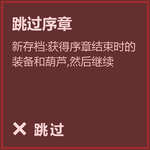
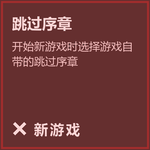
No partner compass; no item cards for the bag catch-up on joining, and the gourd for a player who skipped the prologue by the game's own New Game choice; Skip Prologue points at the game's skip (ours left the young body)

Changed region(s): [[0.08, 0.2667, 0.9067, 0.3467], [0.08, 0.3733, 0.7733, 0.4533], [0.2133, 0.8, 0.5333, 0.9333]]

diff --git a/art/make_online_panel.py b/art/make_online_panel.py
@@ -26,8 +26,7 @@ WORDS = {
                   "direct": ("Steam Direct", "Less delay, but your partner can see your IP"),
                   "players": ("Players", "Host's choice. 6: ghost twins (test)"),
                   "mode": ("Mode", "Local: split screen on this PC, next start"),
-                  "skip": ("Skip Prologue", "New save: the gear and gourd its end gives, then onward"),
-                  "skip_ask": ("Skip Prologue", "Click again to skip it. It can't be undone"),
+                  "skip": ("Skip Prologue", "Start a New Game and choose the game's own skip there"),
                   "skip_done": ("Skip Prologue", "You're past the prologue")},
         "soon": "SOON",
         "foot": ["Click a tile to change it. Kept for next time. Steam Direct and Players: next connection.",
@@ -40,7 +39,7 @@ WORDS = {
                   "online_password_set": ("Password set", "press to remove")},
         "buttons": {"host": "HOST", "join": "GUEST", "leave": "LEAVE", "settings": "MORE", "back": "BACK"},
         "on": "ON", "off": "OFF", "multiplayer": "MULTIPLAYER", "local": "LOCAL",
-        "skip_words": {"todo": "SKIP", "ask": "SURE?", "done": "DONE"},
+        "skip_words": {"todo": "NEW GAME", "done": "DONE"},
     },
     "zh": {
         "prefix": "zh_", "face": chinese, "title": "联机合作", "status": "状态", "through": "连接方式",
@@ -60,8 +59,7 @@ WORDS = {
                   "direct": ("Steam 直连", "延迟更低,但队友能看到你的 IP"),
                   "players": ("人数", "房主决定。6 人:幽灵双生(实验)"),
                   "mode": ("模式", "本地:同一台电脑分屏,下次启动生效"),
-                  "skip": ("跳过序章", "新存档:获得序章结束时的装备和葫芦,然后继续"),
-                  "skip_ask": ("跳过序章", "再点一次即跳过,无法撤销"),
+                  "skip": ("跳过序章", "开始新游戏时选择游戏自带的跳过序章"),
                   "skip_done": ("跳过序章", "你已经过了序章")},
         "soon": "即将推出",
         "foot": ["点击方块切换。设置会保存。Steam 直连和人数下次连接时生效,",
@@ -74,7 +72,7 @@ WORDS = {
                   "online_password_set": ("密码已设置", "按一下清除")},
         "buttons": {"host": "开房", "join": "加入", "leave": "离开", "settings": "更多", "back": "返回"},
         "on": "开", "off": "关", "multiplayer": "多人联机", "local": "本地分屏",
-        "skip_words": {"todo": "跳过", "ask": "确定?", "done": "已完成"},
+        "skip_words": {"todo": "新游戏", "done": "已完成"},
     },
 }
 
@@ -185,12 +183,10 @@ def tiles(w_):
     label, sub = t["mode"]
     for value in ("multiplayer", "local"):
         tile(prefix + "tile_mode_" + value, label, sub, w_[value], "multi", face)
-    # Skip Prologue (the user's design): red in the prologue, red asking once clicked, green for anyone past it.
+    # Skip Prologue (the user's design): red in the prologue, pointing at the game's own skip, green for anyone past it.
     sw = w_["skip_words"]
     label, sub = t["skip"]
     tile(prefix + "tile_skip_todo", label, sub, sw["todo"], "off", face, "cross")
-    label, sub = t["skip_ask"]
-    tile(prefix + "tile_skip_ask", label, sub, sw["ask"], "off", face)
     label, sub = t["skip_done"]
     tile(prefix + "tile_skip_done", label, sub, sw["done"], "on", face, "tick")
 

diff --git a/INSTALL.md b/INSTALL.md
@@ -52,11 +52,11 @@ a home network; Other Network is for ZeroTier and UU Accelerator. If you want a 
 password on both PCs before you connect. English and 中文 at the top of the panel switch the language of the panel
 and the co-op messages. Your choices are kept for the next start.
 
-**MORE** opens the settings: TP > Partner, PvP, the partner compass, your partner on the map and Steam Direct, each ON or
+**MORE** opens the settings: TP > Partner, PvP, your partner on the map and Steam Direct, each ON or
 OFF, Players (2, 4 or 6), and Mode: MULTIPLAYER, or LOCAL for two players on this PC. Mode works from the next time you start the
-game. **Skip Prologue** is red while you're in the prologue: click it, then click again to say yes, and you get the gear
-and healing gourd the prologue's end gives, then go to your partner (or, alone, to the valley where the prologue ends).
-It's green once you're past the prologue. Revive is coming soon. Enemy difficulty is the game's own setting. With a partner, enemies always get extra health and
+game. **Skip Prologue** is red while you're in the prologue: the game skips it itself, when you start a New Game and
+choose its skip. A player who did that gets the healing gourd from the host on joining. It's green once you're past the
+prologue. Revive is coming soon. Enemy difficulty is the game's own setting. With a partner, enemies always get extra health and
 posture on top of it.
 
 **Going to your partner.** Joining takes you to the host once, even on another map, so a friend with a new save can
@@ -80,7 +80,7 @@ players it takes (5 by default) or turns them off (`GhostTwins = Off`). Only the
 
 With more than two players:
 
-- Each player has a number and a colour, the same on every PC, on the compass and the map and in the tips: the host is purple,
+- Each player has a number and a colour, the same on every PC, on the map and in the tips: the host is purple,
   player 2 green, player 3 gold, player 4 blue, player 5 orange, player 6 pink. Red still means down. The panel says how many are connected and who you are.
 - F3 goes to the nearest partner who's up. If nobody's on your map, a guest goes to the host.
 - Enemies get more health and posture for each person connected: see [Co-op difficulty](#co-op-difficulty).
@@ -114,8 +114,6 @@ With more than two players:
 
 ## On screen
 
-- **Partner compass:** a silver seal on a line at the top shows which way your partner is. Turn it off with
-  `PartnerCompass = Off`.
 - **Map:** your partner is a jade copy of your own map marker, turned the way they face, when you're in the same
   area (red while they're down). Turn it off with `PartnerMapIcon = Off`.
 - **Tips:** short messages when your partner connects, drops, goes down or wanders far off, and when something is in
